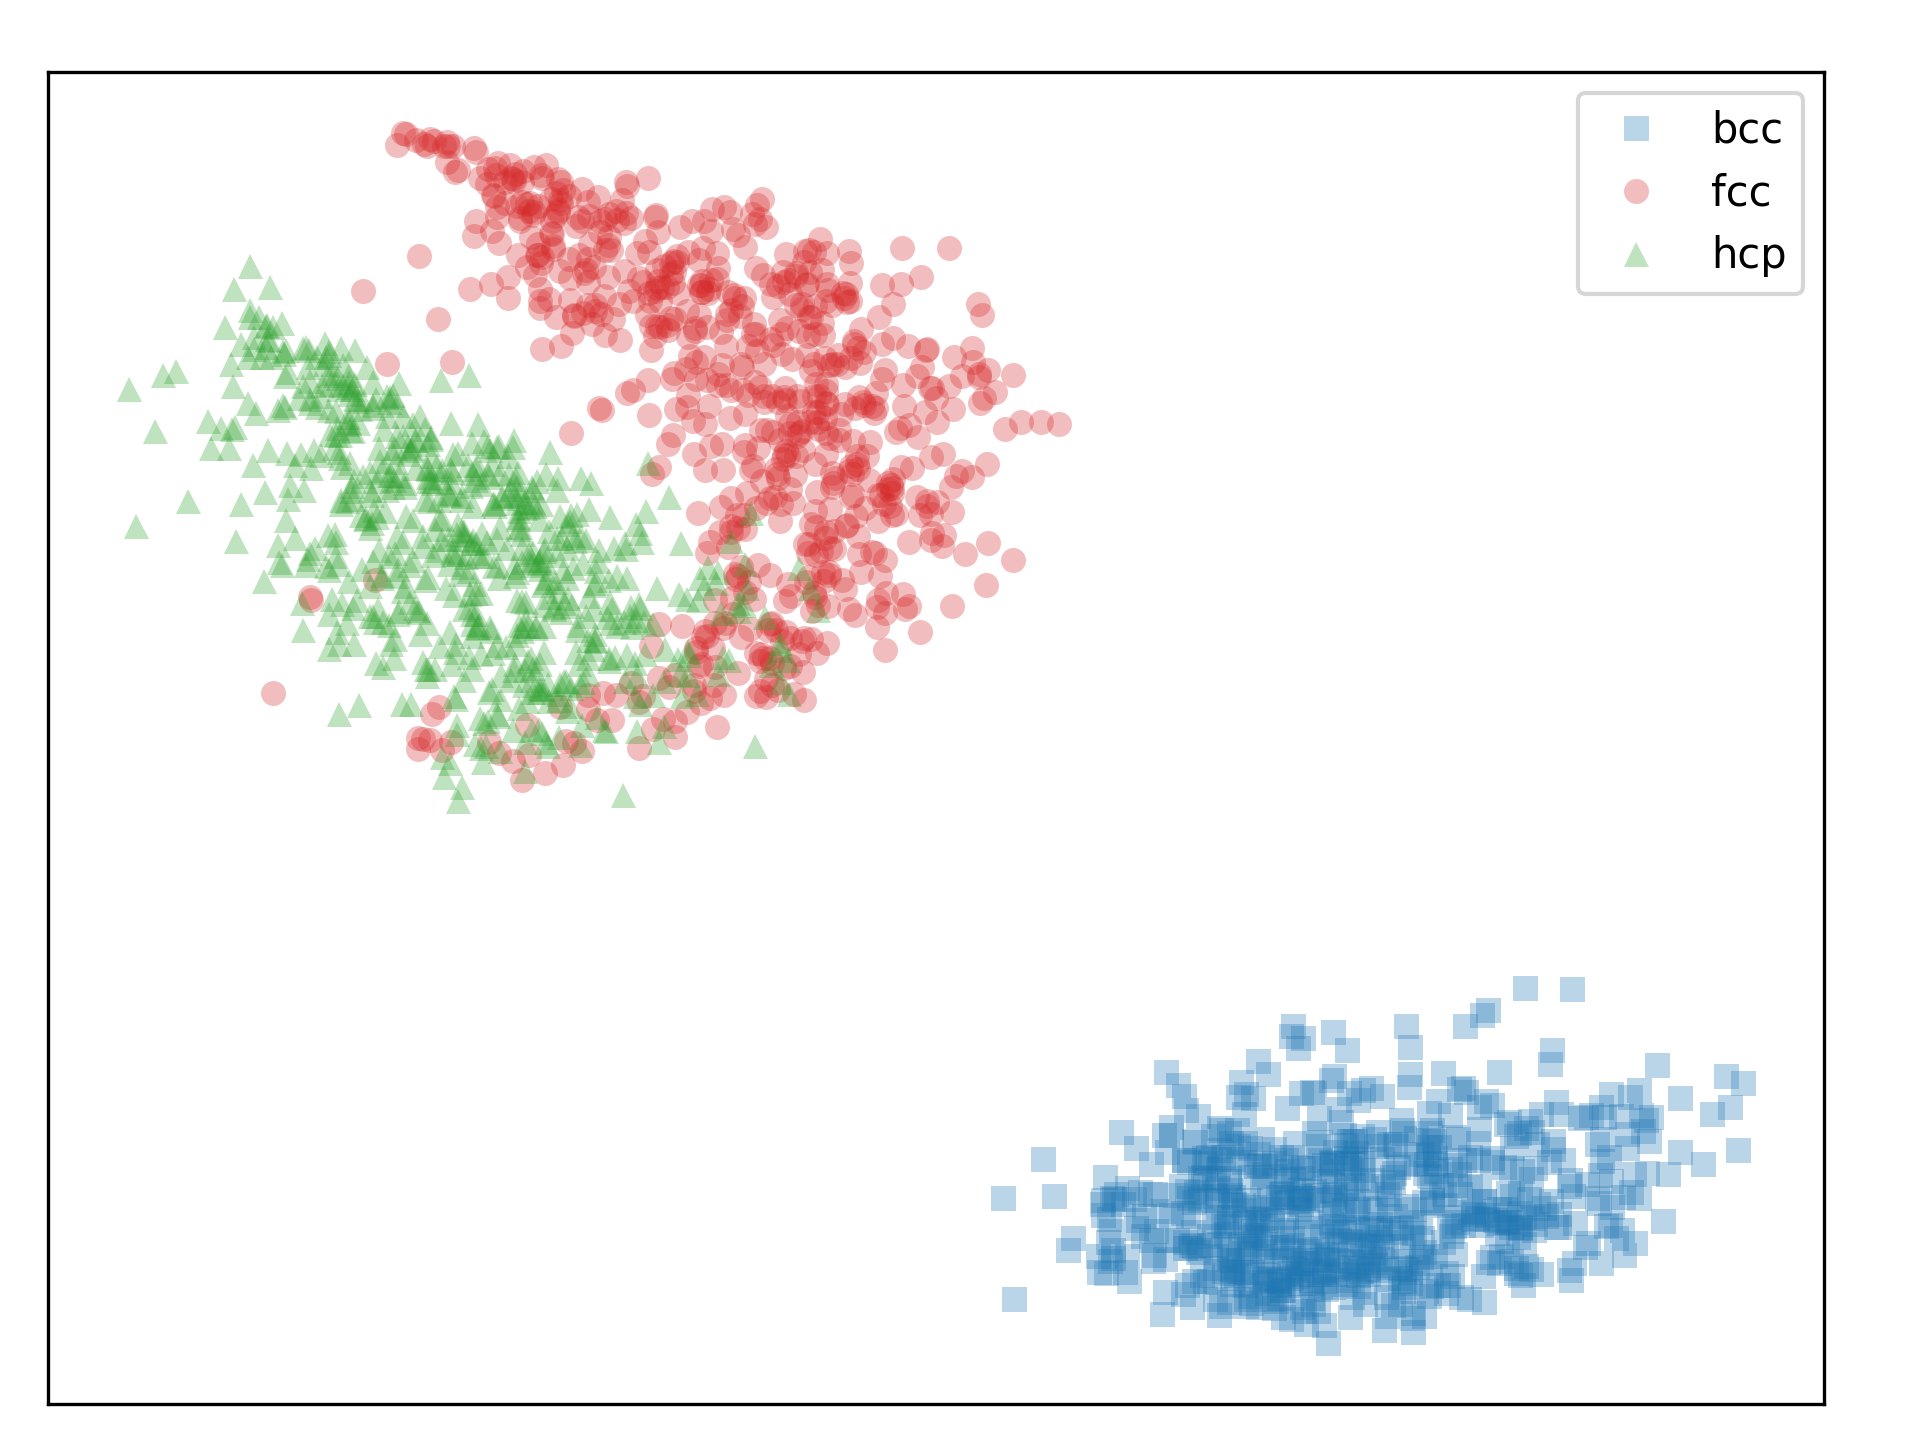
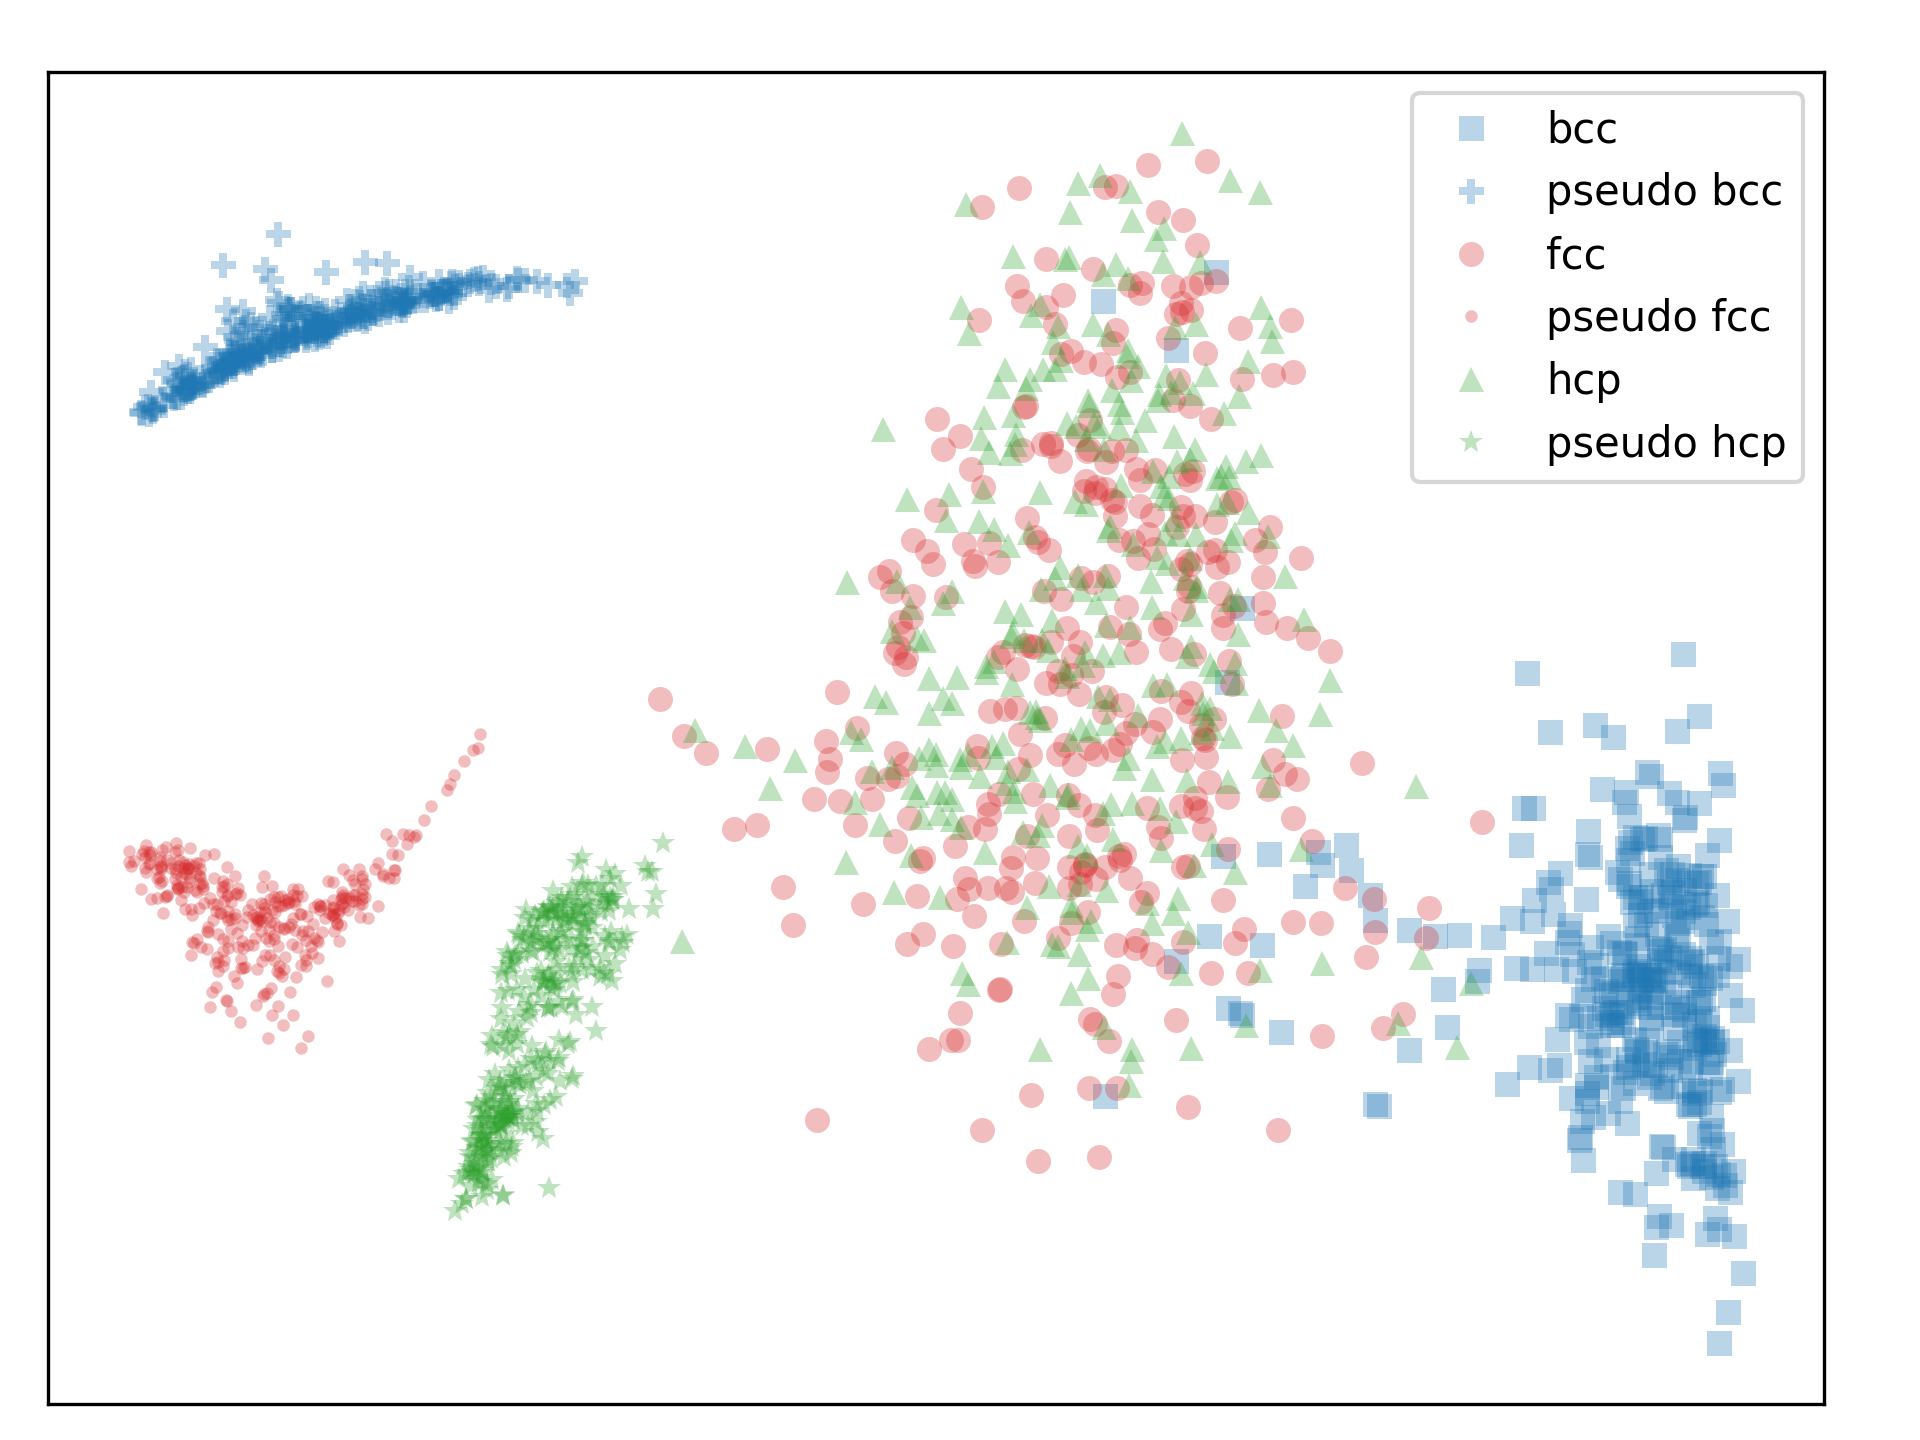
started analyzing generated pseudo steinhardt

diff --git a/03_visualization/b_tSNE/compute.py b/03_visualization/b_tSNE/compute.py
@@ -5,18 +5,17 @@ from sklearn.decomposition import PCA
 
 from util import dir_util
 
-################################################################################
-# Input parameters and setup.                                                  #
-################################################################################
+##########################################################################
+# Input parameters and setup.                                            #
+##########################################################################
 
 perplexity_list = [10, 50, 200, 500, 1000]
 default_perplexity = 10
+M = 1000 # Number of data points used in tSNE.
 
-def input_params_and_setup(perplexity, paths):
-  M = 2000 # Number of data points used in tSNE.
-
+def input_params_and_setup(perplexity, paths, pseudo=True):
   # Load data from example files and limit data points.
-  fnames = dir_util.clean_features_paths02()
+  fnames = dir_util.clean_features_paths02(pseudo=pseudo)
   X = np.loadtxt(fnames.X)
   y = np.loadtxt(fnames.y)
   X = X[:M]
@@ -27,9 +26,12 @@ def input_params_and_setup(perplexity, paths):
     np.savetxt(paths.y, y, fmt='%i')
   return X, y
 
-################################################################################
-# Compute tSNE.                                                                #
-################################################################################
+def split_to_real_pseudo(tSNE):
+  return tSNE[:M], tSNE[M:]
+
+##########################################################################
+# Compute tSNE.                                                          #
+##########################################################################
 
 def compute_tsne(X, perplexity, paths, fname=None):
   if not fname:
@@ -37,9 +39,9 @@ def compute_tsne(X, perplexity, paths, fname=None):
   X_tsne = TSNE(perplexity=perplexity).fit_transform(X)
   np.savetxt(fname, X_tsne)
 
-################################################################################
-# Compute tSNE w/ PCA filter.                                                  #
-################################################################################
+##########################################################################
+# Compute tSNE w/ PCA filter.                                            #
+##########################################################################
 
 def compute_tsne_with_PCA(X, perplexity, paths):
   N_var_99 = 21 # Number of PCA components to explain 99% of the variance.
@@ -48,14 +50,17 @@ def compute_tsne_with_PCA(X, perplexity, paths):
   X_pca = pca.fit(X).transform(X)
   compute_tsne(X_pca, perplexity, paths, paths.X_with_PCA_tmplt.format(perplexity))
 
-################################################################################
+##########################################################################
 
 def main(perplexity=default_perplexity):
-  paths = dir_util.tSNE_data_paths03()
+  paths    = dir_util.tSNE_data_paths03()
+  ps_paths = dir_util.tSNE_data_paths03(pseudo=True)
   
-  X, y = input_params_and_setup(perplexity, paths)
-  compute_tsne(X, perplexity, paths)
-  compute_tsne_with_PCA(X, perplexity, paths)
+  X, y       = input_params_and_setup(perplexity, paths,    pseudo=False)
+  ps_X, ps_y = input_params_and_setup(perplexity, ps_paths, pseudo=True)
+  all_X = np.row_stack((X, ps_X))
+  compute_tsne(all_X, perplexity, paths)
+  compute_tsne_with_PCA(all_X, perplexity, paths)
 
 def main_many():
   for p in tqdm(perplexity_list):

diff --git a/02_clean_features/compute.py b/02_clean_features/compute.py
@@ -1,16 +1,18 @@
 import numpy as np
 from sklearn.preprocessing import StandardScaler
 from sklearn.model_selection import train_test_split
+from sklearn.utils import shuffle
 import joblib
 
 from util import dir_util
 from util import constants as cnst
 
 # Load features and balance classes.
-def load_and_balance():
+def load_and_balance(pseudo=True):
   Xs = {}
   for latt in cnst.lattices:
-    Xs[latt] = np.loadtxt(dir_util.all_features_path01(latt))
+    # default is to use pseudo data
+    Xs[latt] = np.loadtxt(dir_util.all_features_path01(latt, pseudo=pseudo))
   N_min = min([x.shape[0] for x in Xs.values()])
   Xs = {l:x[:N_min] for l,x in Xs.items()}
   return Xs
@@ -29,30 +31,41 @@ def combine_lattices_data(Xs, ys):
   return X,y
 
 # Split in test/train with shuffle and save unscaled features.
-def split_and_save(X, y):
+def split_and_save(ps_X, ps_y, X, y):
   # save unscaled features
-  X_train, X_test, y_train, y_test = train_test_split(X,y,test_size=.2,shuffle=True)
-  train_names = dir_util.clean_features_paths02()
+  # NOTE: always going to train on pseudo steinhardts
+  X_train, y_train = shuffle(ps_X, ps_y)
+  # NOTE: split real steinhardts into validation (Eg for learning curves) and test sets
+  X_val, X_test, y_val, y_test = train_test_split(X,y,test_size=.6,shuffle=True)
+  train_names = dir_util.clean_features_paths02(pseudo=True)
+  val_names   = dir_util.clean_features_paths02()
   test_names  = dir_util.clean_features_paths02(istest=True)
   np.savetxt(test_names.unscaledX , X_test, fmt='%.10e')
+  np.savetxt(val_names.unscaledX  , X_val , fmt='%.10e')
   np.savetxt(train_names.unscaledX, X_train, fmt='%.10e')
   np.savetxt(test_names.y         , y_test, fmt='%d')
+  np.savetxt(val_names.y          , y_val , fmt='%d')
   np.savetxt(train_names.y        , y_train, fmt='%d')
 
   # scale features and save
   scaler = StandardScaler().fit(X_train)
   X_train = scaler.transform(X_train)
   X_test  = scaler.transform(X_test)
-  joblib.dump(scaler, dir_util.scaler_path02())
+  X_val   = scaler.transform(X_val)
+  joblib.dump(scaler, dir_util.scaler_path02(pseudo=True))
 
   np.savetxt(test_names.X , X_test, fmt='%.10e')
+  np.savetxt(val_names.X  , X_val , fmt='%.10e')
   np.savetxt(train_names.X, X_train,fmt='%.10e')
 
 def main():
-  Xs = load_and_balance()
+  ps_Xs = load_and_balance(pseudo=True)
+  ps_ys = make_labels(ps_Xs)
+  Xs = load_and_balance(pseudo=False)
   ys = make_labels(Xs)
+  ps_X,ps_y = combine_lattices_data(ps_Xs, ps_ys)
   X,y = combine_lattices_data(Xs, ys)
-  split_and_save(X,y)
+  split_and_save(ps_X, ps_y, X,y)
 
 if __name__=='__main__':
   main()

diff --git a/03_visualization/b_tSNE/plot.py b/03_visualization/b_tSNE/plot.py
@@ -1,7 +1,7 @@
 import matplotlib.pyplot as plt              
 import numpy as np
 
-from .compute import perplexity_list
+from .compute import perplexity_list, split_to_real_pseudo
 from util import constants as cnst
 from util import dir_util
 
@@ -10,9 +10,10 @@ from util import dir_util
 # Plot tSNE.                                                                   #
 ################################################################################
 
-def plot_one_tSNE(X_tmplt, fig_tmplt, y, perplexity):
+def plot_one_tSNE(X_tmplt, fig_tmplt, ps_y, y, perplexity):
   # Load results.
   tSNE = np.loadtxt(X_tmplt.format(perplexity))
+  tSNE, ps_tSNE = split_to_real_pseudo(tSNE)
   
   # Start figure.
   fig = plt.figure()
@@ -21,7 +22,8 @@ def plot_one_tSNE(X_tmplt, fig_tmplt, y, perplexity):
   # Plot.
   for latt in cnst.lattices:
     y_lbl = latt.y_label
-    ax.plot(tSNE[y==y_lbl][:,0], tSNE[y==y_lbl][:,1], latt.pt_fmt, alpha=.3, label=latt.name, mew=0)
+    ax.plot(tSNE[y==y_lbl][:,0],       tSNE[y==y_lbl][:,1],       latt.pt_fmt,    alpha=.3, label=latt.name, mew=0)
+    ax.plot(ps_tSNE[ps_y==y_lbl][:,0], ps_tSNE[ps_y==y_lbl][:,1], latt.ps_pt_fmt, alpha=.3, label='pseudo '+latt.name, mew=0)
    
   # Add details.
   ax.set_xticks([])
@@ -32,23 +34,25 @@ def plot_one_tSNE(X_tmplt, fig_tmplt, y, perplexity):
   fig.savefig(fig_tmplt.format(perplexity), dpi=300)
   plt.close()
 
-def plot_many_tSNE(y, data_paths, withPCA=False):
+def plot_many_tSNE(ps_y, y, data_paths, withPCA=False):
   X_tmplt = data_paths.X_with_PCA_tmplt if withPCA else data_paths.X_tmplt
   fig_tmplts = dir_util.tSNE_fig_tmplts03()
   fig_tmplt = fig_tmplts.with_PCA if withPCA else fig_tmplts.no_PCA
   
   for perplexity in perplexity_list:
-    plot_one_tSNE(X_tmplt, fig_tmplt, y, perplexity)
+    plot_one_tSNE(X_tmplt, fig_tmplt, ps_y, y, perplexity)
 
 ################################################################################
 # Plot tSNE after PCA filter.                                                  #
 ################################################################################
 
 def main():
-  data_paths = dir_util.tSNE_data_paths03()
-  y = np.loadtxt(data_paths.y)
-  plot_many_tSNE(y, data_paths, withPCA=False)
-  plot_many_tSNE(y, data_paths, withPCA=True)
+  data_paths    = dir_util.tSNE_data_paths03()
+  ps_data_paths = dir_util.tSNE_data_paths03(pseudo=True)
+  y    = np.loadtxt(data_paths.y)
+  ps_y = np.loadtxt(ps_data_paths.y)
+  plot_many_tSNE(ps_y, y, data_paths, withPCA=False)
+  plot_many_tSNE(ps_y, y, data_paths, withPCA=True)
 
 if __name__=='__main__':
   main()

diff --git a/util/dir_util.py b/util/dir_util.py
@@ -3,6 +3,7 @@ from collections import namedtuple
 from pathlib import Path
 
 blank = '{}'
+pseudo_pre = 'pseudo_'
 
 def dump_path_for_lattice00(latt, perfect=False):
   perf_suffix = '_perfect' if perfect else ''
@@ -10,11 +11,11 @@ def dump_path_for_lattice00(latt, perfect=False):
   return make_dirs(cnst.md_path + latt.sim_dir + dump_tmpl.format(latt.name, perf_suffix, blank))[0]
 
 def all_features_path01(latt, pseudo=False):
-  pseudo_prefix = 'pseudo_' if pseudo else ''
+  pseudo_prefix = pseudo_pre if pseudo else ''
   return make_dirs('{}data/X/{}X_{}.dat'.format(cnst.raw_feat_path, pseudo_prefix, latt.name))[0]
 
 def clean_features_paths02(istest=False, pseudo=False):
-  pseudo_prefix = 'pseudo_' if pseudo else ''
+  pseudo_prefix = pseudo_pre if pseudo else ''
   split_lbl = 'test' if istest else 'train'
   tmplt = '{par_dir}data/{ps}{blank}{blank}_{split_lbl}.dat'.format(
     ps=pseudo_prefix, par_dir=cnst.clean_feat_path, blank=blank, split_lbl=split_lbl
@@ -28,11 +29,12 @@ def clean_features_paths02(istest=False, pseudo=False):
   return Paths(*make_dirs(unscaledX, X, y))
 
 def scaler_path02(pseudo=False):
-  pseudo_prefix = 'pseudo_' if pseudo else ''
+  pseudo_prefix = pseudo_pre if pseudo else ''
   return '{}data/{}scaler.pkl'.format(cnst.clean_feat_path, pseudo_prefix)
 
-def pca_data_paths03():
-  tmplt = '{}data/{}{}.dat'.format(cnst.pca_path, blank, blank)
+def pca_data_paths03(pseudo=False):
+  pseudo_prefix = pseudo_pre if pseudo else ''
+  tmplt = '{}data/{}{}{}.dat'.format(cnst.pca_path, pseudo_prefix, blank, blank)
   comp_prefix = 'PCA_component_'
   comp1 = tmplt.format(comp_prefix, 1)
   comp2 = tmplt.format(comp_prefix, 2)
@@ -44,8 +46,9 @@ def pca_data_paths03():
 def pca_fig_path03():
   return '{}fig_PCA.png'.format(cnst.vis_figures_path)
 
-def tSNE_data_paths03():
-  tmplt = '{}data/{}.data'.format(cnst.tSNE_path, blank)
+def tSNE_data_paths03(pseudo=False):
+  pseudo_prefix = pseudo_pre if pseudo else ''
+  tmplt = '{}data/{}{}.data'.format(cnst.tSNE_path, pseudo_prefix, blank)
   y = tmplt.format('y')
   X = tmplt.format('tSNE_{}')
   X_with_PCA = tmplt.format('tSNE_PCA_{}')

diff --git a/03_visualization/a_PCA/plot.py b/03_visualization/a_PCA/plot.py
@@ -8,14 +8,14 @@ from util import constants as cnst
 # Load and process data.                                                       #
 ################################################################################
 
-def load_and_process_data():
+def load_and_process_data(pseudo=True):
   M = 20000 # Number of points to be plotted.
 
   # Load results.
-  data_names = dir_util.pca_data_paths03()
+  data_names = dir_util.pca_data_paths03(pseudo=pseudo)
   PCA_1 = np.loadtxt(data_names.comp1)
   PCA_2 = np.loadtxt(data_names.comp2)
-  y = np.loadtxt(dir_util.clean_features_paths02(istest=True).y)
+  y = np.loadtxt(dir_util.clean_features_paths02(istest=not pseudo, pseudo=pseudo).y)
 
   # Limit number of points plotted.
   PCA_1 = PCA_1[:M]
@@ -27,7 +27,7 @@ def load_and_process_data():
 # Plot.                                                                        #
 ################################################################################
 
-def plot(PCA_1, PCA_2, y):
+def plot(ps_PCA_1, ps_PCA_2, ps_y, PCA_1, PCA_2, y):
   # Start figure.
   fig = plt.figure()
   ax  = fig.add_axes([0.15, 0.15, 0.80, 0.80])
@@ -35,7 +35,8 @@ def plot(PCA_1, PCA_2, y):
   # Plot.
   for latt in cnst.lattices:
     y_lbl = latt.y_label
-    ax.plot(PCA_1[y==y_lbl], PCA_2[y==y_lbl], latt.pt_fmt, alpha=.3, label=latt.name, mew=0)
+    ax.plot(PCA_1[y==y_lbl],       PCA_2[y==y_lbl]      , latt.pt_fmt,    alpha=.3, label=latt.name, mew=0)
+    ax.plot(ps_PCA_1[ps_y==y_lbl], ps_PCA_2[ps_y==y_lbl], latt.ps_pt_fmt, alpha=.3, label='pseudo '+latt.name, mew=0)
    
   # Add details.
   ax.set_xlabel(r'First PCA component')
@@ -49,8 +50,9 @@ def plot(PCA_1, PCA_2, y):
 ################################################################################
 
 def main():
-  PCA_1, PCA_2, y = load_and_process_data()
-  plot(PCA_1, PCA_2, y)
+  ps_PCA_1, ps_PCA_2, ps_y = load_and_process_data(pseudo=True)
+  PCA_1, PCA_2, y          = load_and_process_data(pseudo=False)
+  plot(ps_PCA_1, ps_PCA_2, ps_y, PCA_1, PCA_2, y)
 
 if __name__=='__main__':
   main()

diff --git a/03_visualization/a_PCA/compute.py b/03_visualization/a_PCA/compute.py
@@ -5,22 +5,27 @@ from util import dir_util
 
 def main():
   # Load data from example files.
-  #X = loadtxt('../02_order_features/data/X_test.dat')
-  #y = loadtxt('../02_order_features/data/y_test.dat')
+  ps_test_names = dir_util.clean_features_paths02(pseudo=True)
   test_names = dir_util.clean_features_paths02(istest=True)
+  ps_X = np.loadtxt(ps_test_names.X)
   X = np.loadtxt(test_names.X)
 
-  # Compute PCA and save first two components.
+  # Compute PCA from  and save first two components.
   pca = PCA()
-  X_pca = pca.fit(X).transform(X)
+  # fit princip components from pseudo steinhardts, transform both pseudo and real to see overlay
+  ps_X_pca = pca.fit(ps_X).transform(ps_X)
+  X_pca = pca.transform(X)
+  ps_paths = dir_util.pca_data_paths03(pseudo=True)
   paths = dir_util.pca_data_paths03()
   np.savetxt(paths.comp1, X_pca[:,0])
   np.savetxt(paths.comp2, X_pca[:,1])
+  np.savetxt(ps_paths.comp1, ps_X_pca[:,0])
+  np.savetxt(ps_paths.comp2, ps_X_pca[:,1])
 
   # Compute cummulative variance explained .
   var = pca.explained_variance_ratio_.cumsum()
   u = np.arange(1,len(var)+1)
-  np.savetxt(paths.variance, np.transpose([u,var]), fmt='%2d %.5f', header='  n_components | explained variance (cummulative sum)')
+  np.savetxt(ps_paths.variance, np.transpose([u,var]), fmt='%2d %.5f', header='  n_components | explained variance (cummulative sum)')
 
 if __name__=='__main__':
   main()

diff --git a/util/constants.py b/util/constants.py
@@ -17,12 +17,17 @@ svm_rbf_ovo_path = 'c_svm_rbf_ovo/'
 
 ######### CRYSTAL STRUCTURES ########
 
-Lattice= namedtuple('CrystalStruct', 'name, sim_dir, y_label, n_neigh, pt_fmt')
+Lattice= namedtuple('CrystalStruct', 'name, sim_dir, y_label, n_neigh, pt_fmt, ps_pt_fmt')
 
 lattices = [
-  Lattice(name='bcc', sim_dir='02_crystals/', y_label=3, n_neigh=8 , pt_fmt='C0s'),#int(CNAModifier.Type.BCC)),
-  Lattice(name='fcc', sim_dir='02_crystals/', y_label=1, n_neigh=12, pt_fmt='C3o'),#int(CNAModifier.Type.FCC)),
-  Lattice(name='hcp', sim_dir='02_crystals/', y_label=2, n_neigh=12, pt_fmt='C2^'),#int(CNAModifier.Type.HCP)),
+  Lattice(name='bcc', sim_dir='02_crystals/', y_label=3, n_neigh=8 , pt_fmt='C0s', ps_pt_fmt='C0P'),#int(CNAModifier.Type.BCC)),
+  Lattice(name='fcc', sim_dir='02_crystals/', y_label=1, n_neigh=12, pt_fmt='C3o', ps_pt_fmt='C3.'),#int(CNAModifier.Type.FCC)),
+  Lattice(name='hcp', sim_dir='02_crystals/', y_label=2, n_neigh=12, pt_fmt='C2^', ps_pt_fmt='C2*'),#int(CNAModifier.Type.HCP)),
   #Lattice(name='liq', sim_dir='03_liquid/',   cna_mod_type=0, n_neigh=None)#int(CNAModifier.Type.OTHER))
 ]
 
+str_to_latt = {
+  'bcc': lattices[0],
+  'fcc': lattices[1],
+  'hcp': lattices[2],
+}

diff --git a/01_compute_features/01_compute.py b/01_compute_features/01_compute.py
@@ -23,9 +23,12 @@ def compute(latt, pseudo=.06):
 def main():
   import argparse
   parser = argparse.ArgumentParser()
+  parser.add_argument('--latt', type=str, default=None)
   parser.add_argument('--pseudo_param', type=float, default=None)
   args = parser.parse_args()
-  for latt in cnst.lattices:
+  
+  lattices = cnst.lattices if args.latt == None else [cnst.str_to_latt[args.latt]]
+  for latt in lattices:
     print(latt.name)
     compute(latt, args.pseudo_param)
 

diff --git a/03_visualization/c_feature_pairs_map/plot.py b/03_visualization/c_feature_pairs_map/plot.py
@@ -17,7 +17,7 @@ L = 1/(N+1) # Total length occupied by panels in each direction.
 dL = 0.90*L # Length of panel sides.
 
 def load_data():
-  paths = dir_util.clean_features_paths02()
+  paths = dir_util.clean_features_paths02(pseudo=True)
   X = np.loadtxt(paths.unscaledX)
   y = np.loadtxt(paths.y)
   X = X[:M]
